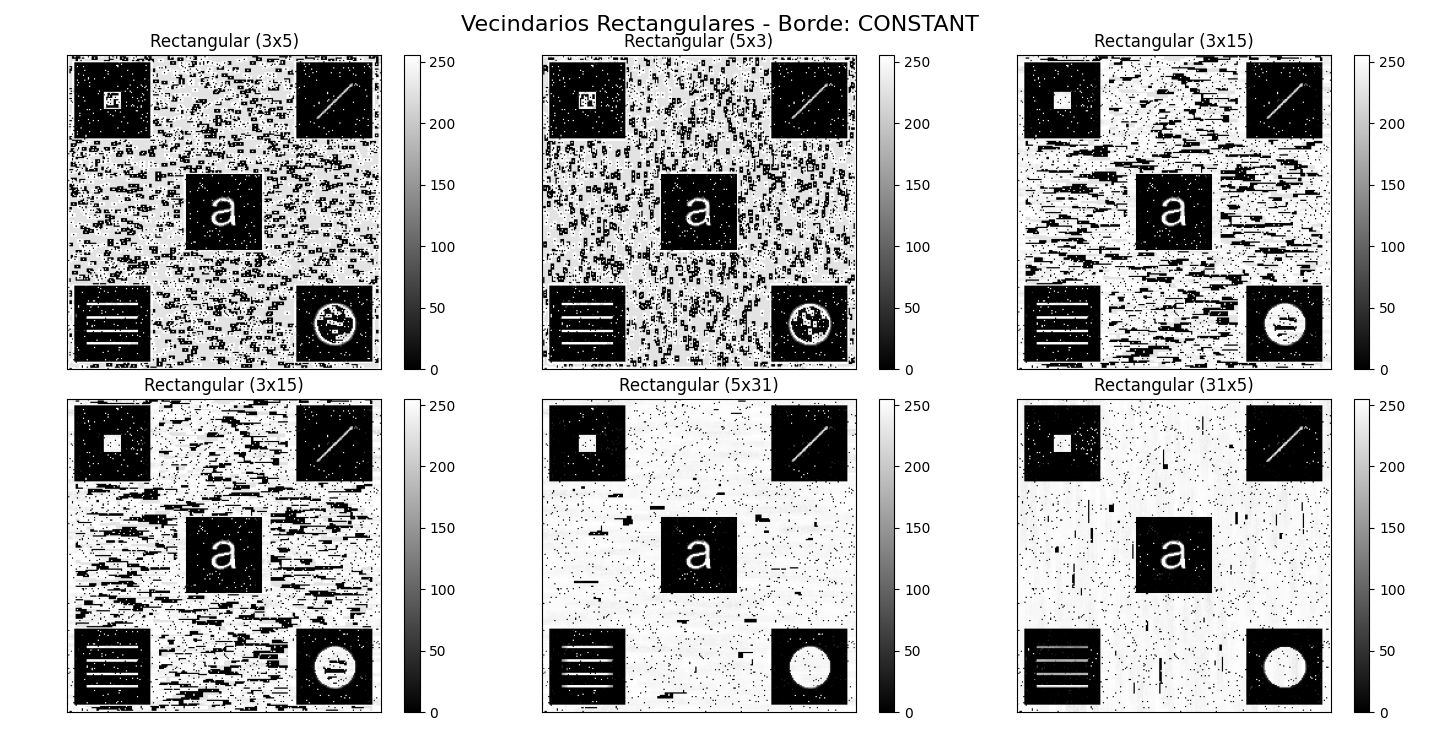
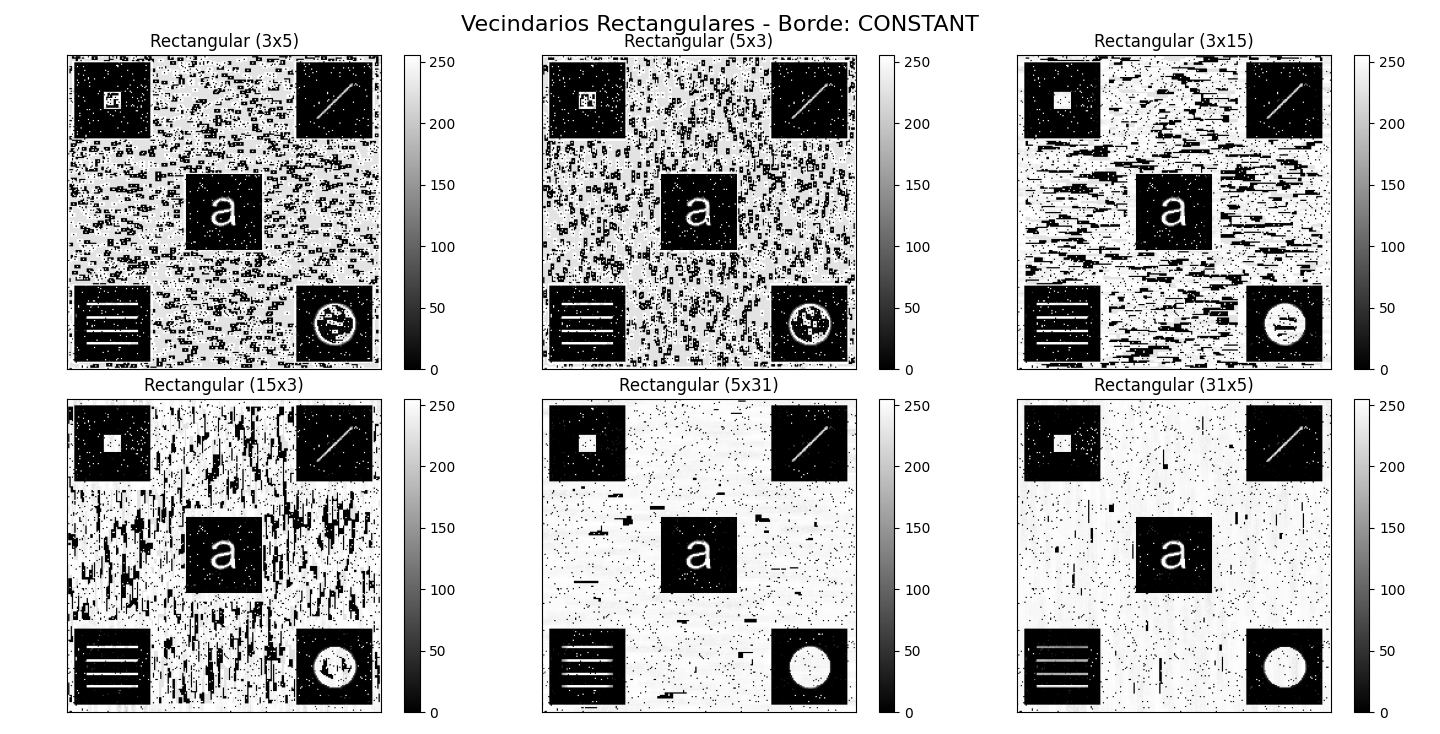
Arreglo un error en el codigo del problema 1

Changed region(s): [[0.0312, 0.5095, 0.2812, 0.9891]]

diff --git a/Codigos/problema_1.py b/Codigos/problema_1.py
@@ -85,7 +85,7 @@ if __name__ == '__main__':
     }
     
     ventanas_cuadradas = [(3, 3), (5, 5), (7, 7), (11, 11), (15, 15), (31, 31)]
-    ventanas_rectangulares = [(3, 5), (5, 3), (3, 15), (3, 15), (5, 31), (31, 5)]
+    ventanas_rectangulares = [(3, 5), (5, 3), (3, 15), (15, 3), (5, 31), (31, 5)]
 
     # Exploramos cada técnica de borde
     for nombre_borde, tipo_borde in tecnicas_bordes.items():
